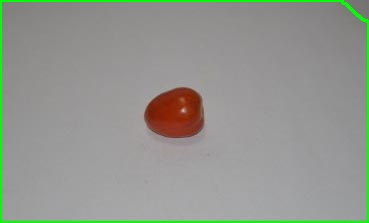
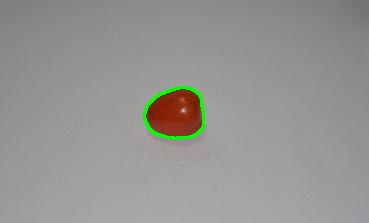
detección de bordes

Changed region(s): [[0.0, 0.0, 1.0, 1.0], [0.3875, 0.3767, 0.5664, 0.6457]]

diff --git a/src/main.py b/src/main.py
@@ -2,7 +2,7 @@ import cv2
 import os
 
 # Ruta de la imagen de prueba
-ruta_imagen = "dataset\Tomates\Tre_001.jpg"
+ruta_imagen = "dataset/Tomates/Tre_001.jpg"
 
 # Cargar imagen
 imagen = cv2.imread(ruta_imagen)
@@ -18,28 +18,29 @@ imagen_sin_ruido = cv2.GaussianBlur(imagen, (5,5), 0)
 gris = cv2.cvtColor(imagen_sin_ruido, cv2.COLOR_BGR2GRAY)
 
 # 3⃣ Segmentación (umbral)
-_, umbral = cv2.threshold(gris, 120, 255, cv2.THRESH_BINARY)
+_, umbral = cv2.threshold(gris, 120, 255, cv2.THRESH_BINARY_INV)
 
 # 4⃣ Detectar contornos
 bordes = cv2.Canny(gris, 50, 150)
 
-contornos, _ = cv2.findContours(
-    umbral,
-    cv2.RETR_EXTERNAL,
-    cv2.CHAIN_APPROX_SIMPLE
-)
+contornos, _ = cv2.findContours(umbral, cv2.RETR_EXTERNAL, cv2.CHAIN_APPROX_SIMPLE)
 
 # Dibujar contornos
 imagen_contornos = imagen.copy()
 
-imagen_contornos = imagen.copy()
+areas = []
+
+for c in contornos:
+    areas.append(cv2.contourArea(c))
+
+area_max = max(areas)
 
 for c in contornos:
     area = cv2.contourArea(c)
 
-    # Filtrar contornos muy pequeños o muy grandes
-    if area > 500 and area < 50000:
+    if 300 < area < 5000:
         cv2.drawContours(imagen_contornos, [c], -1, (0,255,0), 2)
+
 
 # Crear carpeta resultados si no existe
 os.makedirs("resultados", exist_ok=True)
